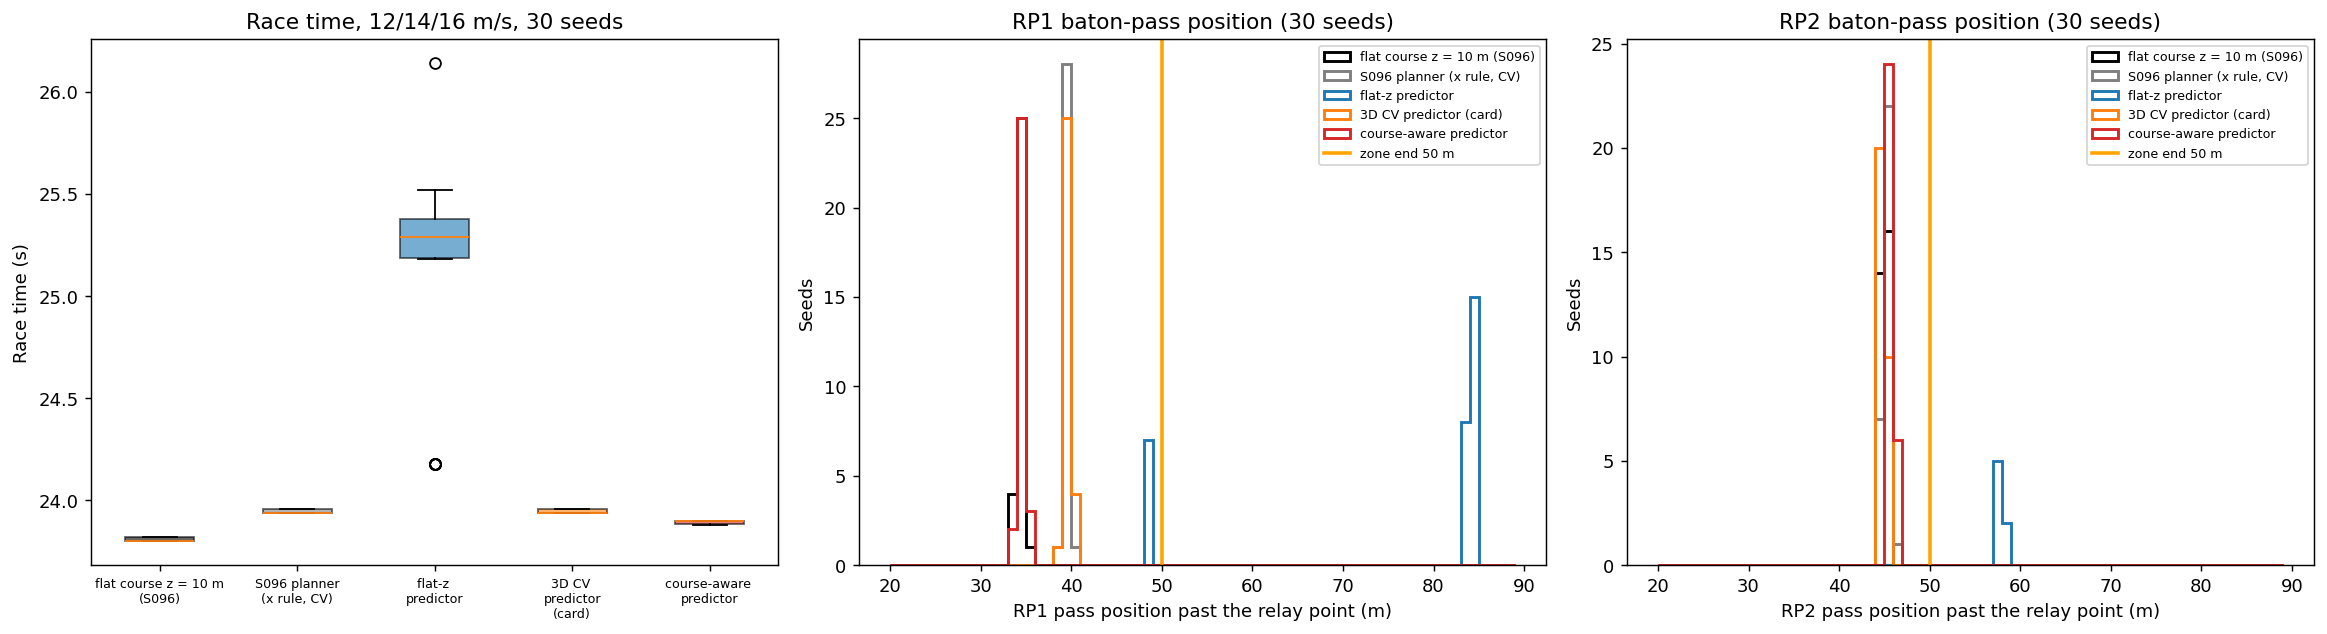
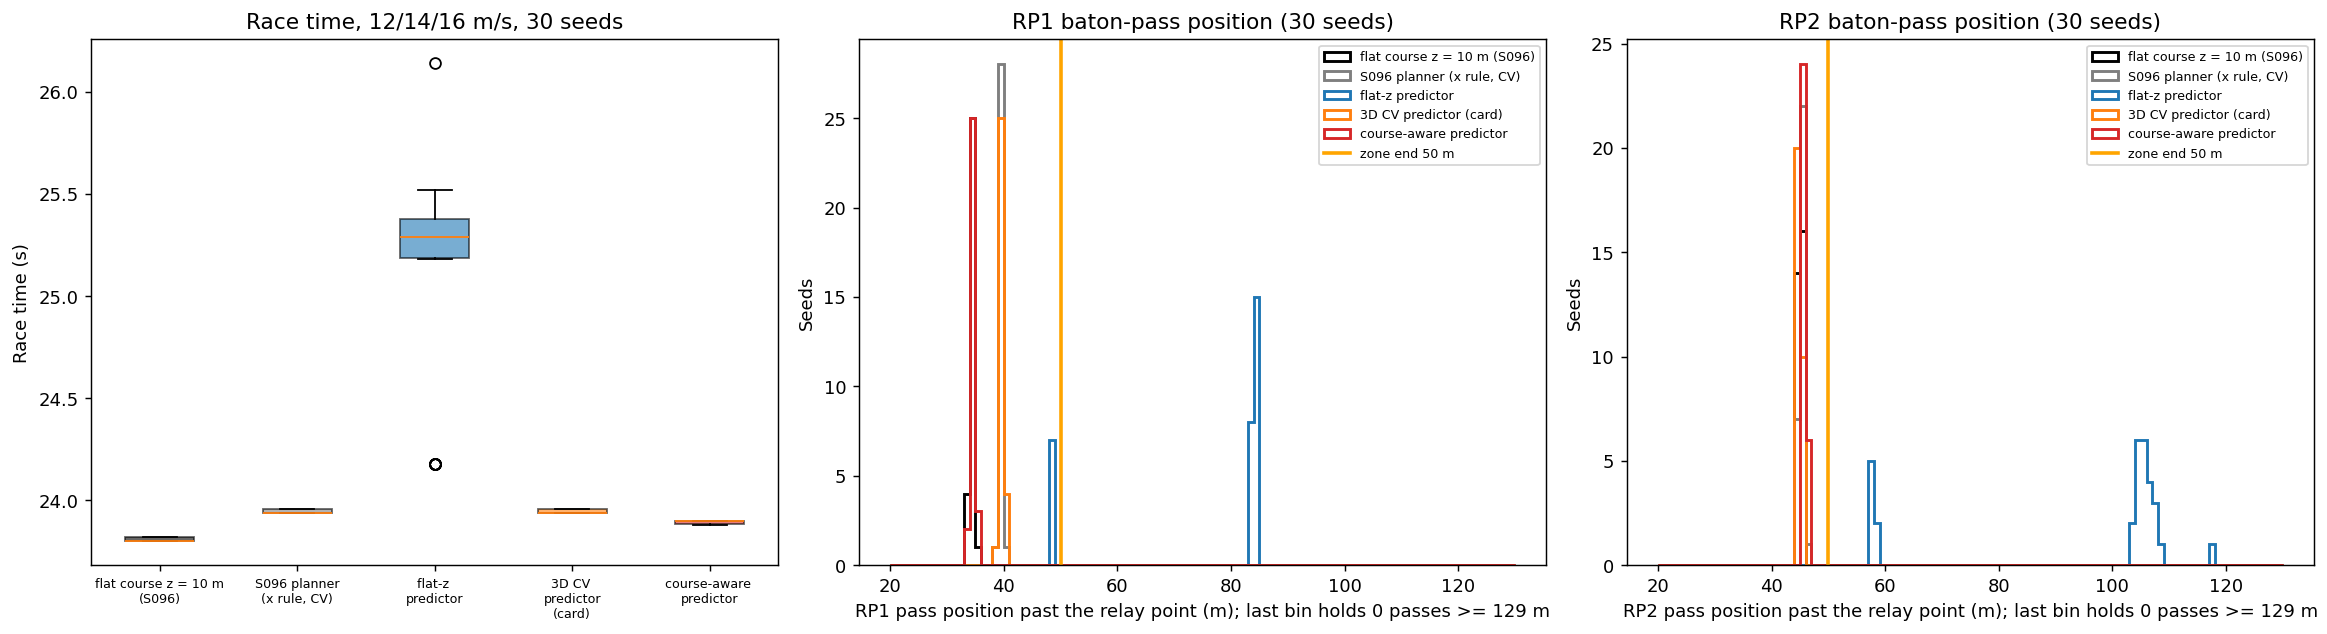
Fix S096 3D Drone Relay Race: address review follow-ups

Changed region(s): [[0.3713, 0.0899, 1.0, 0.989], [0.6188, 0.8991, 0.6498, 0.929], [0.6188, 0.6593, 0.6498, 0.6893]]

diff --git a/src/05_special_entertainment/3d/s096_3d_relay_race.py b/src/05_special_entertainment/3d/s096_3d_relay_race.py
@@ -84,6 +84,8 @@ ZF_SWEEP = [4.0, 6.0, 8.0, 10.0, 12.0, 14.0, 16.0, 18.0]
 Z_FLAT_REF = 10.0                # flat baseline reference altitude (S096)
 VARIANTS = {'base': ('x', 'cv'), 'flatz': ('path', 'flatz'),
             'cv3d': ('path', 'cv'), 'course': ('path', 'course')}
+ABLATIONS = {'zfix': ('path', 'zfix'), 'vzfix': ('path', 'vzfix'),
+             'flatz_rp2': ('path', 'flatz_rp2')}          # added probes
 LABELS = {'base': 'S096 planner (x rule, CV)', 'flatz': 'flat-z predictor',
           'cv3d': '3D CV predictor (card)', 'course': 'course-aware predictor',
           'flat': f'flat course z = {Z_FLAT_REF:.0f} m (S096)'}
@@ -145,6 +147,18 @@ def predict(kind, xkf, taus, course):
         vh = np.array([v[0], v[1], 0.0])
         pf = p[None, :] + taus[:, None] * vh[None, :]
         return pf, np.broadcast_to(vh, (len(taus), 3))
+    # ablations (added): which part of the course-aware state fixes the CV planner?
+    if kind in ('zfix', 'vzfix'):
+        pc, vc = predict('course', xkf, taus, course)
+        pv, vv = predict('cv', xkf, taus, course)
+        pv, vv = pv.copy(), np.array(vv).copy()
+        if kind == 'zfix':                              # course altitude, CV v_z
+            pv[:, 2] = pc[:, 2]
+        else:                                           # CV altitude, course v_z
+            vv[:, 2] = vc[:, 2]
+        return pv, vv
+    if kind == 'flatz_rp2':                             # CV at RP1, flat-z only at RP2
+        return predict('cv' if p[0] < COURSE_WP[3, 0] else 'flatz', xkf, taus, course)
     sp = float(np.linalg.norm(v))                       # course-aware
     pf, tan = course.at(course.s_of_x(p[0]) + sp * taus)
     pf = pf.copy()
@@ -174,7 +188,7 @@ def run_simulation(variant='course', v_cruise=V_CRUISE, seed=0, z_flat=None, wai
                    a_launch=A_LAUNCH, record=False):
     """One race. z_flat=None -> 3D card course; a number -> flat course at that altitude
     with the S096 cruise law (2D baseline). waits = waiting altitudes of B and C."""
-    rule, pk = VARIANTS[variant]
+    rule, pk = {**VARIANTS, **ABLATIONS}[variant]
     flat = z_flat is not None
     course = flat_course(z_flat) if flat else COURSE_3D
     st = [course.W[0].copy(), np.array([100.0, 0.0, waits[0]]),
@@ -526,13 +540,18 @@ def plot_monte_carlo(mc, out_dir):
     ax.set_ylabel('Race time (s)')
     ax.set_title(f'Race time, 12/14/16 m/s, {N_MC} seeds')
     ax.tick_params(axis='x', labelsize=7)
+    hi = 130.0                                    # last bin collects every pass beyond it
     for j, ax in enumerate(axes[1:]):
+        n_over = 0
         for k in keys:
             x = mc[k]['H']['x'][:, j]
-            ax.hist(x[np.isfinite(x)], bins=np.arange(20, 90, 1.0), histtype='step', lw=1.6,
-                    color=VCOL[k], label=LABELS[k])
+            x = x[np.isfinite(x)]
+            n_over += int(np.sum(x >= hi - 1))
+            ax.hist(np.minimum(x, hi - 0.5), bins=np.arange(20, hi + 1e-9, 1.0), histtype='step',
+                    lw=1.6, color=VCOL[k], label=LABELS[k])
         ax.axvline(L_ZONE, color='orange', lw=2, label='zone end 50 m')
-        ax.set_xlabel(f'RP{j + 1} pass position past the relay point (m)')
+        ax.set_xlabel(f'RP{j + 1} pass position past the relay point (m); last bin holds '
+                      f'{n_over} passes >= {hi - 1:.0f} m')
         ax.set_ylabel('Seeds')
         ax.set_title(f'RP{j + 1} baton-pass position ({N_MC} seeds)')
         ax.legend(fontsize=7)
@@ -730,6 +749,9 @@ if __name__ == '__main__':
     print('  second pass beyond the 300 m finish (race then ends at the pass, leg 3 never '
           'flown): ' + ', '.join(f'{k} {int(np.sum(m["H"]["x"][:, 1] + RELAY_XS[2] > RELAY_XS[3]))}'
                                  f'/{N_MC}' for k, m in mc.items()))
+    print('  passes at >= 129 m past the relay point (collected in the last histogram bin): '
+          + ', '.join(f'RP{j + 1} {sum(int(np.sum(m["H"]["x"][:, j] >= 129.0)) for m in mc.values())}'
+                      for j in range(2)))
     for k in VARIANTS:
         m = mc[k]
         for j in range(2):
@@ -757,6 +779,20 @@ if __name__ == '__main__':
         ratio = np.nanmean(mc[k]['finish']) / np.nanmean(mc['flat']['finish'])
         print(f'  {k:7s}: mean race time / flat baseline = {ratio:.4f} '
               f'({100 * (ratio - 1):+.2f} %; card target <= +10 %)')
+    print(f'\nAblations ({N_MC} seeds, card speeds, same seeds):')
+    for k, lab in (('cv3d', '3D CV (card)'), ('zfix', 'CV, course altitude, CV v_z'),
+                   ('vzfix', 'CV altitude, course v_z'), ('course', 'course-aware (both)'),
+                   ('flatz', 'flat-z at both relays'),
+                   ('flatz_rp2', 'CV at RP1, flat-z only at RP2')):
+        m = mc[k] if k in mc else monte_carlo(k)
+        H = m['H']
+        print(f'  {lab:32s} both in zone {m["zone_ok"].sum()}/{N_MC}, race '
+              f'{np.nanmean(m["finish"]):.2f} s; RP1 +{np.nanmean(H["x"][:, 0]):.1f} m, late '
+              f'{np.nanmean(H["late"][:, 0]):+.2f} s, in zone {int(np.sum(H["x"][:, 0] <= L_ZONE))}/'
+              f'{N_MC}; RP2 +{np.nanmean(H["x"][:, 1]):.1f} m, late {np.nanmean(H["late"][:, 1]):+.2f} s, '
+              f'in zone {int(np.sum(H["x"][:, 1] <= L_ZONE))}/{N_MC}, RP2 launch gap '
+              f'{np.nanmean(H["launch_gap"][:, 1]):.1f} m; second pass past the finish '
+              f'{int(np.sum(H["x"][:, 1] + RELAY_XS[2] > RELAY_XS[3]))}/{N_MC}')
 
     print(f'\nLaunch-acceleration sensitivity ({N_SWEEP} seeds, card speeds; zone L = 50 m):')
     for al in A_SWEEP:

diff --git a/outputs/05_special_entertainment/3d/s096_3d_relay_race/README.md b/outputs/05_special_entertainment/3d/s096_3d_relay_race/README.md
@@ -21,7 +21,7 @@ The baton holder follows the waypoints with the card's 3D velocity director (swi
 | `base` | S096 planner unchanged (**2D baseline**) | x-gap ≤ $v_x T/2$, $T = 1.875\,v_x/a_L$ | constant-velocity (CV) prediction of the KF state |
 | `flatz` | 2D planner with a z-stabiliser (card's "flat-z assumption") | horizontal gap along the horizontal KF velocity | horizontal CV; altitude held at the current estimate, $v_z^* = 0$ |
 | `cv3d` | card | gap and speed along the 3D KF velocity | 3D CV prediction (uses $\hat v_z$) |
-| `course` | added | as `cv3d` | KF speed propagated along the known course polyline |
+| `course` | added; **uses the known course polyline, which the other planners do not have** | as `cv3d` | KF speed propagated along the course polyline |
 
 **2D baseline on a flat course**: the S096 planner and the S096 cruise law at a fixed race altitude $z_f$, with the same waiting stations (B 12 m, C 10 m), swept over $z_f$ = 4–18 m.
 
@@ -85,7 +85,7 @@ conda activate drones
 python src/05_special_entertainment/3d/s096_3d_relay_race.py
 ```
 
-Runtime: about 2.7 min (155–162 s over three runs; other simulations were running on the machine at the same time). Stdout and every output file are byte-identical across two single-threaded runs and one run with default threading. The script asserts that the speed stays at or below 20 m/s, that nothing moves more than $v_{max}\Delta t$ in one step, that every altitude stays above 0, and that the flat baseline reproduces S096 exactly.
+Runtime: about 3 min (167–184 s over three runs; other simulations were running on the machine at the same time). Stdout and every output file are byte-identical across two single-threaded runs and one run with default threading. The script asserts that the speed stays at or below 20 m/s, that nothing moves more than $v_{max}\Delta t$ in one step, that every altitude stays above 0, and that the flat baseline reproduces S096 exactly.
 
 ---
 
@@ -113,7 +113,7 @@ Commanded accelerations above 5 m/s² are clipped to $a_{max}$; the "max command
 | `cv3d` (card) | 30/30 | 23.95 ± 0.01 s | +39.6 ± 0.3 m (+0.50 s) | +44.9 ± 0.4 m (−0.02 s) | 0.060 m, 0.121 m/s; 0.055 m, 0.099 m/s |
 | **`course`** | 30/30 | **23.89 ± 0.01 s** | **+34.6 ± 0.3 m** (+0.08 s) | +45.6 ± 0.3 m (−0.04 s) | 0.073 m, 0.060 m/s; 0.042 m, 0.090 m/s |
 
-With `flatz`, the second pass lands past the 300 m finish in 23/30 seeds; the race then ends at the pass and leg 3 is never flown, so its race time is flattered (none of the other planners does this). The altitude-bound term was active in 0 drone-steps.
+With `flatz`, the second pass lands past the 300 m finish in 23/30 seeds; the race then ends at the pass and leg 3 is never flown, so its race time is flattered (none of the other planners does this). Most of the RP2 figure is a cascade from the late RP1 pass: B gets the baton late, so C's launch gap shrinks from 45.4 m (`cv3d`) to 22.2 m. With the CV planner at RP1 and flat-z only at RP2 (ablation below), RP2 still fails on its own: +57.8 m, 0/30 in the zone, but no pass beyond the finish. The altitude-bound term was active in 0 drone-steps.
 
 **Paired comparisons (30 seeds, CRN)**:
 
@@ -137,9 +137,22 @@ Mean race time against the flat baseline: `base` +0.60 %, `flatz` +5.40 %, `cv3d
 | `course` RP1 | −0.04 m | −0.04 m | −0.04 m | −0.04 m | −0.04 m |
 | `course` RP2 | −0.00 m | +0.00 m | −0.00 m | +0.00 m | +0.00 m |
 
-- At RP1 the incoming drone climbs at 0.04 when the intercept starts and turns to 0.16 at the relay point, part-way through the intercept. The constant-velocity prediction misses the turn by about 4 m until 3 s before $t^*$, and the error collapses only between 3 s and 2 s before $t^*$. B then has to correct late: the pass completes 0.50 s after $t^*$ and 5.0 m further down the zone than with the course-aware planner (30/30 seeds).
+- At RP1 the incoming drone climbs at 0.04 when the intercept starts and turns to 0.16 at the relay point, part-way through the intercept. The constant-velocity prediction misses the turn: its planned meeting point is about 4 m too low until 3 s before $t^*$, and the error collapses only between 3 s and 2 s before $t^*$. The pass completes 0.50 s after $t^*$ and 5.0 m further down the zone than with the course-aware planner (30/30 seeds). The altitude error alone is **not** the cause; see the ablation below.
 - At RP2 the CV launch-time error is even larger (+12.47 m), because B has just turned at (150, 0, 16) and its KF still carries the climb rate. But by 5 s before $t^*$ the error is down to −0.65 m, so the late part of the intercept is clean and the pass is on time.
 - With the altitude held (`flatz`), the planned point is always 1–6 m off and ends with $v_z^* = 0$. The planned end vertical speed is 1.88 m/s off at RP1 (mean over seeds), far above $v_{tol}$ = 0.5 m/s, so the pass only completes in the formation-hold phase, 3.55 s late on average.
+
+**Ablation: which part of the predicted state matters** (30 seeds, card speeds, same seeds). `zfix` takes the CV prediction but replaces the planned altitude with the course altitude; `vzfix` keeps the CV altitude but uses the course's vertical speed; `flatz_rp2` uses the CV planner at RP1 and the flat-z planner only at RP2:
+
+| Planner | Both in zone | Race | RP1 pass (late) | RP2 pass (late) | RP2 launch gap | 2nd pass past finish |
+|---|---:|---:|---|---|---:|---:|
+| `cv3d` (card) | 30/30 | 23.95 s | +39.6 m (+0.50 s) | +44.9 m (−0.02 s) | 45.4 m | 0/30 |
+| `zfix`: course altitude, CV $v_z$ | 30/30 | 23.95 s | +39.9 m (+0.53 s) | +44.9 m (−0.03 s) | 45.2 m | 0/30 |
+| `vzfix`: CV altitude, course $v_z$ | 27/30 | 24.14 s | +48.9 m (+1.29 s), 27/30 in zone | +51.1 m (+0.27 s) | 39.9 m | 3/30 |
+| `course`: both | 30/30 | 23.89 s | +34.6 m (+0.08 s) | +45.6 m (−0.04 s) | 45.4 m | 0/30 |
+| `flatz` at both relays | 0/30 | 25.09 s | +75.8 m (+3.55 s), 7/30 in zone | +94.8 m (+2.89 s) | 22.2 m | 23/30 |
+| `flatz_rp2`: CV at RP1, flat-z at RP2 | 0/30 | 24.06 s | +39.6 m (+0.50 s) | +57.8 m (+0.84 s), 0/30 in zone | 44.4 m | 0/30 |
+
+Correcting the planned altitude alone (`zfix`) changes nothing, and correcting only the vertical speed (`vzfix`) makes RP1 worse: a planned end state whose altitude and vertical speed do not belong to the same trajectory forces a harder correction. Only the consistent course state (altitude and vertical speed together) brings the RP1 pass forward to +34.6 m. So the CV planner's late RP1 pass is caused by its state prediction as a whole, altitude and vertical speed together, missing the slope change, not by the 4 m altitude error on its own.
 
 **Launch-acceleration and zone-length sensitivity** (10 seeds; seeds with both passes inside a zone of L = 40 / 50 / 55 / 60 m):
 
@@ -186,8 +199,8 @@ Per-leg times (seed 0; start → pass 1 → pass 2 → finish): flat card speeds
 
 **Key findings**:
 
-- **The card's claim that the vertical prediction is load-bearing holds.** Holding the predicted altitude (`flatz`, a 2D planner with a z-stabiliser) puts both passes outside the 50 m zone in 30/30 seeds, 3.55 s and 2.89 s after the planned meeting time, and in 23/30 seeds the second pass lands past the finish. Using the KF's $\hat v_z$ (`cv3d`) restores 30/30. This holds for $a_L$ = 3 and 4 m/s²; at $a_L$ = 5 m/s² the flat-z planner also fits the zone.
-- **A constant-velocity prediction is not enough on a course that turns at the relay point.** At RP1 the course steepens from 0.04 to 0.16 about 3 s before the meeting time. The CV planners (`base`, `cv3d`) carry a −4 m altitude error until then, pass 0.5 s late and 5 m further down the zone. Propagating the KF speed along the known course (`course`, which has more information: the course polyline) removes the error (−0.04 m) and is faster than every other planner in 30/30 seeds. At the speed optimum this matters: the S096 planner's best feasible speeds (12, 16) are 0.6 s slower and stay inside the zone in only 10/30 seeds.
+- **The card's claim that the vertical prediction is load-bearing holds.** Holding the predicted altitude (`flatz`, a 2D planner with a z-stabiliser) keeps both passes inside the 50 m zone in 0/30 seeds (passes 3.55 s and 2.89 s after the planned meeting time), and in 23/30 seeds the second pass lands past the finish. Much of the RP2 damage is a cascade from the late RP1 pass (C's launch gap shrinks to 22.2 m), but flat-z fails RP2 on its own too: with the CV planner at RP1, the RP2 pass is at +57.8 m, outside the zone in 30/30 seeds. Using the KF's $\hat v_z$ (`cv3d`) restores 30/30. This holds for $a_L$ = 3 and 4 m/s²; at $a_L$ = 5 m/s² the flat-z planner also fits the zone.
+- **A constant-velocity prediction is not enough on a course that turns at the relay point.** At RP1 the course steepens from 0.04 to 0.16 part-way through the intercept. The CV planners (`base`, `cv3d`) predict a meeting state (altitude and vertical speed) that misses the turn, pass 0.5 s late and 5 m further down the zone. The ablation shows that fixing only the altitude (`zfix`, +39.9 m) or only the vertical speed (`vzfix`, +48.9 m) does not help; only the consistent course state does. Propagating the KF speed along the known course (`course`, which has more information: the course polyline) removes the error (−0.04 m) and is faster than `base` and `cv3d` in 30/30 seeds. At the speed optimum this matters: the S096 planner's best feasible speeds (12, 16) are 0.6 s slower and stay inside the zone in only 10/30 seeds.
 - **The 3D course costs little time**: +0.37 % (0.088 s) for the course-aware planner against the flat S096 race, far inside the card's ≤ 10 % target, and +0.082 s at the respective speed optima. The extra path length is 0.32 %.
 - **The planned waiting altitude hardly matters** (≤ 0.04 s over 4–18 m for the course-aware planner). The card's mismatched waits (B 4 m above, C 4 m below) cost 0.012–0.014 s against waiting at the relay altitude.
 - **Hand-off accuracy is never the issue**: $\lvert dp\rvert \le 0.223$ m and $\lvert dv\rvert \le 0.495$ m/s at every pass, including `flatz`. The planners differ in *when and where* the pass completes, not in whether it does.
@@ -213,6 +226,8 @@ Altitude of each drone for the course-aware, flat-z and S096 planners (seed 0). 
 ![RP2](./handoff_rp2.png)
 
 ### Monte Carlo
+
+Race times and pass positions (30 seeds). The histogram bins run to 130 m and the last bin would collect any pass at 129 m or beyond; there are none (printed), so no flat-z pass is cut off.
 
 ![Monte Carlo](./monte_carlo.png)
 
@@ -241,7 +256,7 @@ Course-aware planner, seed 0: 3D view and side elevation (x–z) with the exchan
 | Altitude bound $K_{bound}(z_{min} - z)$ inside the band | $K_{bound}(z_{min} + 0.5 - z)$ (and mirrored at the top); card corrected | The card's form is negative inside the band and pushes towards the bound. It was never active here |
 | Behaviour after the relay point not specified | The baton holder keeps following the course (towards the next leg's checkpoint) until the pass | The course continues; this is what makes the RP1 exchange happen on the 0.16 climb |
 | "Flat-course baseline" at 10 m | Flat baseline with the S096 planner and cruise law, swept over $z_f$ = 4–18 m with the card's waiting stations | Fair 2D baseline (X5); the flat race reproduces S096 exactly with the S096 stations |
-| One 3D planner with "full 3D intercept" | `cv3d` (card) plus the S096 planner, a flat-z planner (card's ablation) and a course-aware planner (added) | Tests the card's $v_z$ claim directly and separates the launch rule from the predictor |
+| One 3D planner with "full 3D intercept" | `cv3d` (card) plus the S096 planner, a flat-z planner (card's ablation), a course-aware planner that also knows the course polyline (added) and three ablations (`zfix`, `vzfix`, `flatz_rp2`) | Tests the card's $v_z$ claim directly and separates the launch rule from the predictor |
 | Per-leg speed optimisation "jointly over horizontal and vertical components"; $T_{total} = \sum L_i/v_i + 2T_{handoff}$ | S096 grid search over $(v_A, v_B)$ with the 50 m zone; race time = time at which C, holding the baton, reaches 300 m | Legs overlap during the passes (S096) |
 | Launch rule not specified for 3D | Gap and speed along the predicted velocity, armed only while the incoming drone moves forward ($\hat v_x$ > 1 m/s, as S096) | The 3D projection alone launched on the noisy first KF velocity estimates (during development, one seed drove B into the ground before this guard) |
 | Waiting altitudes fixed (12 / 10 m) | Kept, plus a sweep of 4–18 m for each outgoing drone | The planned altitude decision; the result is that it barely matters |
